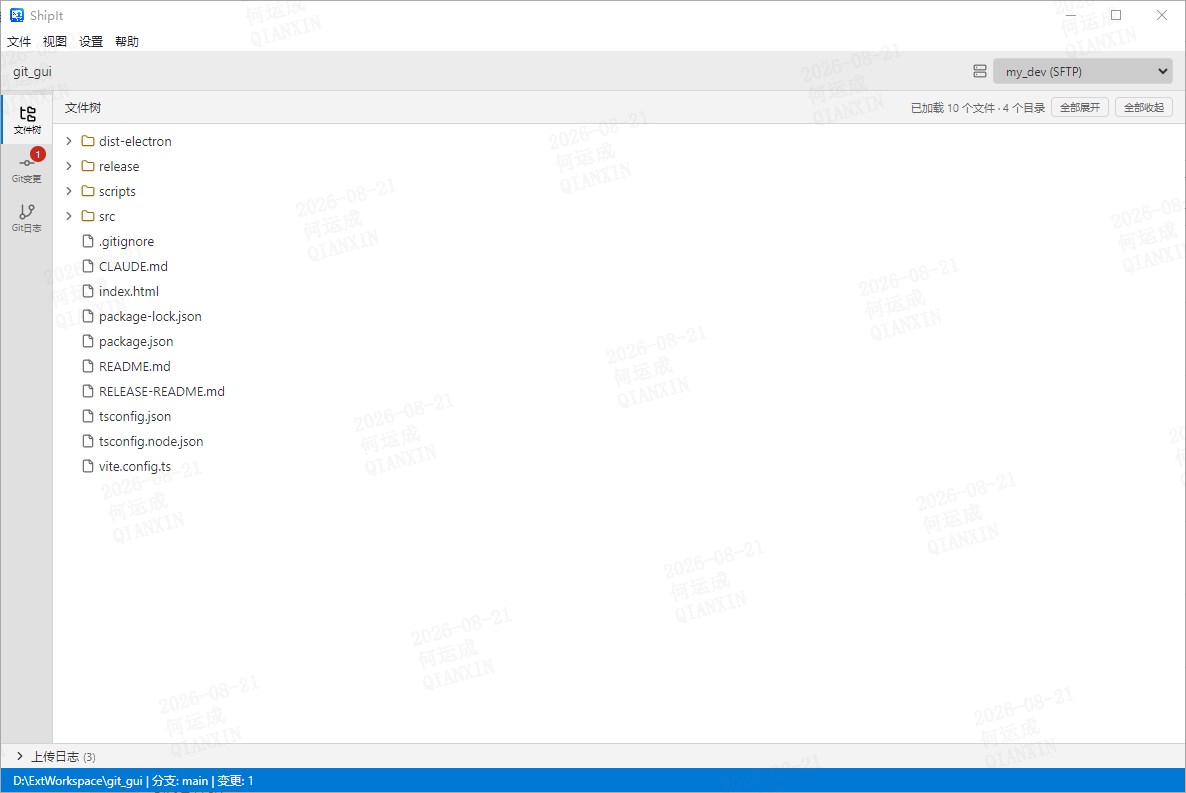
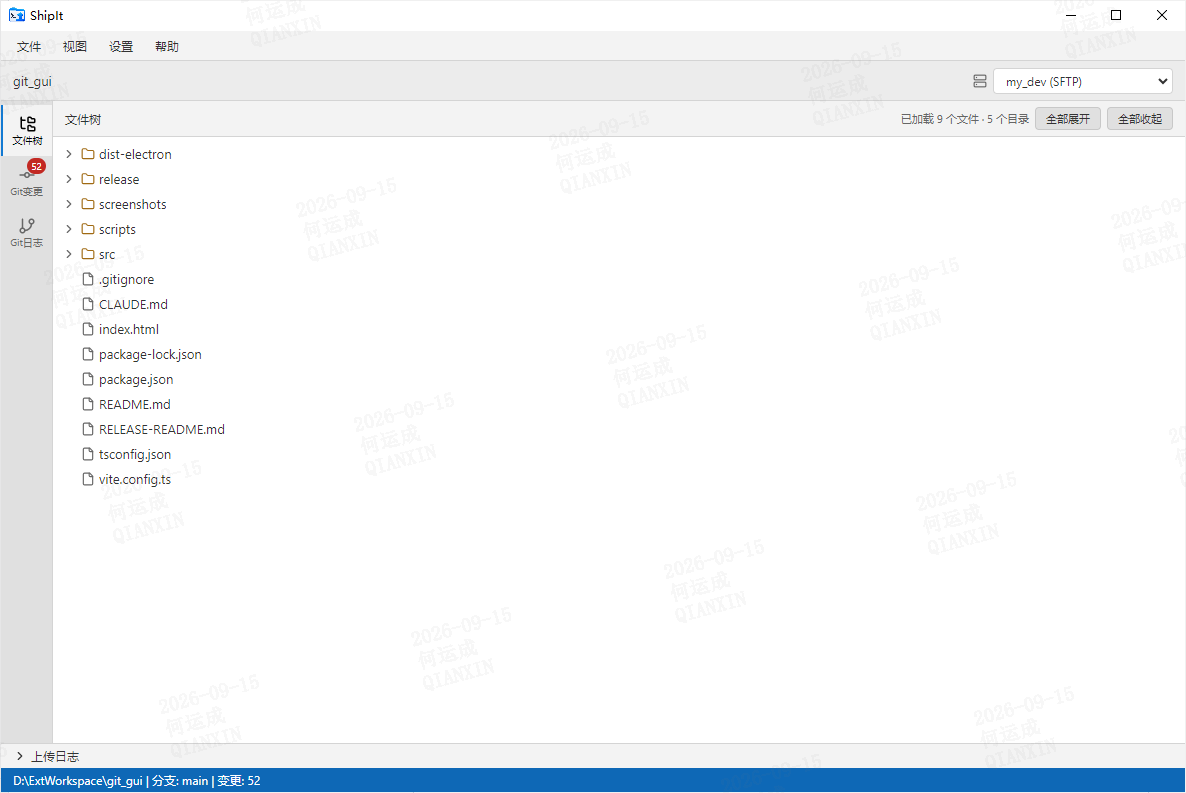
docs: update screenshots and shortcut docs for v1.0.3

Changed region(s): [[0.0, 0.0, 1.0, 1.0], [0.0, 0.0, 0.1872, 0.6356]]

diff --git a/README.md b/README.md
@@ -2,7 +2,7 @@
 
 面向开发者的文件发布工具 —— 将本地文件通过 SFTP/FTP/FTPS/FTPES/本地目录一键上传到多台服务器，集成 Git 变更与提交历史查看。
 
-![版本](https://img.shields.io/badge/version-1.0.0-blue)
+![版本](https://img.shields.io/badge/version-1.0.3-blue)
 ![平台](https://img.shields.io/badge/platform-Windows%2010+-green)
 
 ## 功能特性
@@ -11,6 +11,8 @@
 - **多目标上传**：支持 SFTP/FTP/FTPS/FTPES/本地目录，每个目标独立配置连接与目录映射
 - **上传链路**：选中文件 → 确认弹窗 → 进度条（可取消）→ 底部日志
 - **Git 集成**：查看变更、提交历史，一键上传提交文件
+- **键盘操作**：`Ctrl+Shift+Alt+X` 唤起服务器菜单，数字 `1-9/0/A-Z` 选服务器，`Enter` 确认 / `Esc` 取消
+- **菜单栏**：VS Code 风格菜单（文件 / 视图 / 设置 / 帮助），带快捷键提示与当前项标记
 - **主题**：自动跟随系统 / 深色 / 亮色
 - **无障碍**：键盘可达、焦点环、ARIA 标签
 
@@ -46,18 +48,20 @@
 
 文件树 / Git 变更中右键或点击"快速上传" → 选择目标 → 确认弹窗 → 上传 → 底部日志查看结果。
 
+也可以纯键盘操作：点击选中文件 / 目录 / 提交 → `Ctrl+Shift+Alt+X` → 按序号或鼠标选择服务器 → `Enter` 确认上传。
+
 ## 快捷键
 
 | 快捷键 | 功能 |
 |--------|------|
 | `Ctrl+O` | 打开目录 |
-| `Ctrl+Shift+O` | 打开工作目录 |
 | `Ctrl+1` | 文件树视图 |
 | `Ctrl+2` | Git 变更视图 |
 | `Ctrl+3` | Git 日志视图 |
 | `Ctrl+,` | 上传目标管理 |
 | `Ctrl+W` | 关闭项目 |
-| `Esc` | 关闭弹窗 |
+| `Ctrl+Shift+Alt+X` | 选择服务器上传（菜单内数字/字母选择）|
+| `Esc` | 关闭弹窗 / 取消上传 |
 
 ## 截图
 
